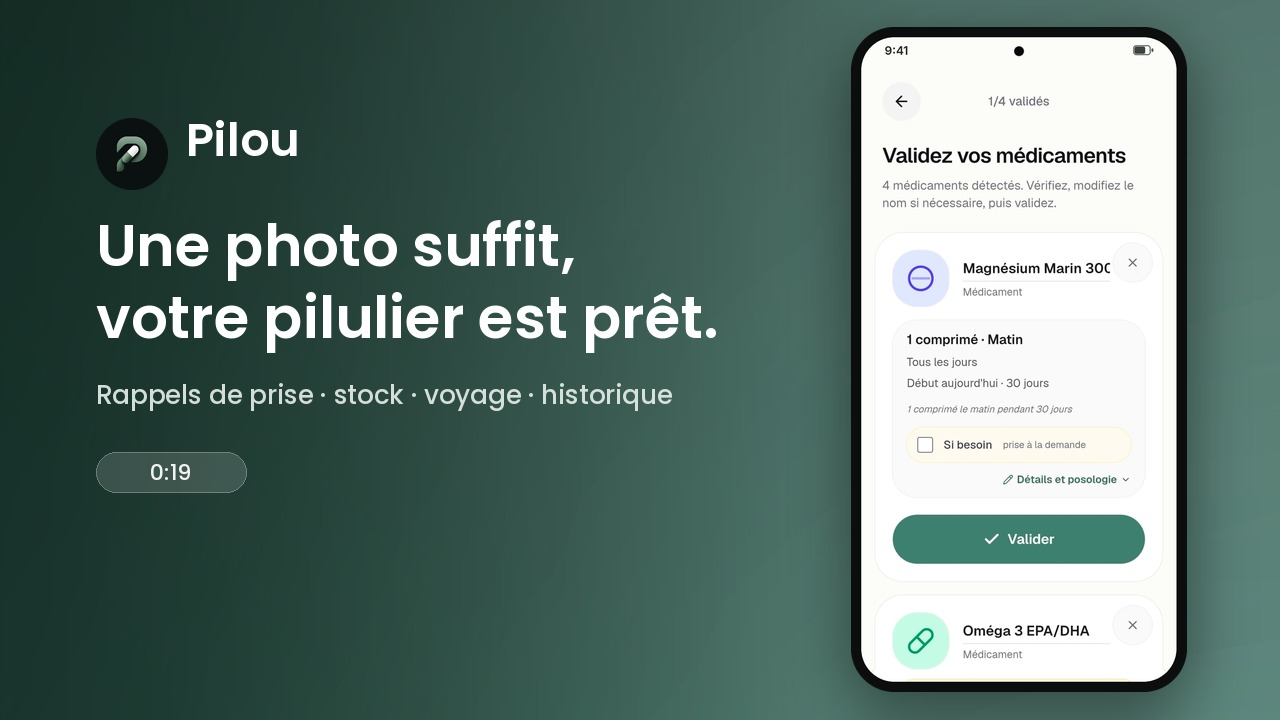
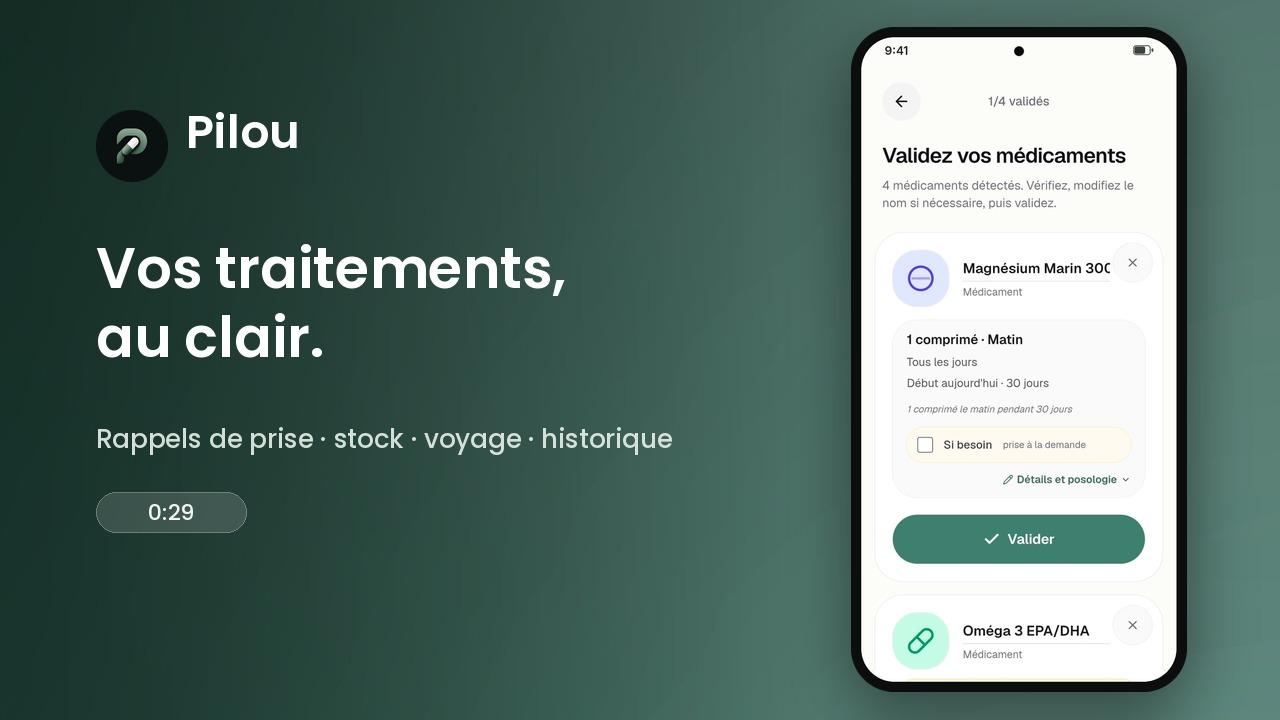
Lecteur video : bascule sur le film fonctionnalites (30 s, voix licenciee)
Accueil et support pointent desormais sur bhYcdQlru8E. VideoObject mis a jour : nom, description, uploadDate 2026-08-16, duration PT29S, embedUrl. Nouvelle affiche : badge 0:29, et titre raccourci pour que le bouton de lecture ne recouvre plus le texte.

Changed region(s): [[0.0625, 0.3056, 0.5625, 0.7639], [0.3438, 0.5194, 0.5312, 0.6417], [0.0625, 0.1528, 0.25, 0.275]]

diff --git a/index.html b/index.html
@@ -1126,11 +1126,11 @@ footer{background:#0a0f0c;color:white;padding:64px 40px 40px}
 <section class="film-section" aria-labelledby="film-titre">
   <div class="film-wrap">
     <div class="film-eyebrow">En vidéo</div>
-    <h2 class="film-title" id="film-titre">Pilou en vingt secondes</h2>
-    <p class="film-sub">Une photo de votre ordonnance, et votre pilulier est prêt.</p>
+    <h2 class="film-title" id="film-titre">Pilou en trente secondes</h2>
+    <p class="film-sub">La vie d’un traitement, de l’ordonnance au renouvellement.</p>
     <div class="film-frame">
-      <a class="film-facade" href="https://www.youtube.com/watch?v=Wdt5yfLllcM" data-yt="Wdt5yfLllcM" rel="noopener">
-        <img src="/affiche-film.jpg" width="1280" height="720" loading="lazy" decoding="async" alt="Pilou : une photo suffit, votre pilulier est prêt">
+      <a class="film-facade" href="https://www.youtube.com/watch?v=bhYcdQlru8E" data-yt="bhYcdQlru8E" rel="noopener">
+        <img src="/affiche-film.jpg" width="1280" height="720" loading="lazy" decoding="async" alt="Pilou : le pilulier qui lit votre ordonnance">
         <span class="film-play" aria-hidden="true"><i></i></span>
       </a>
     </div>
@@ -1141,12 +1141,12 @@ footer{background:#0a0f0c;color:white;padding:64px 40px 40px}
 {
   "@context": "https://schema.org",
   "@type": "VideoObject",
-  "name": "Pilou — une photo suffit, votre pilulier est prêt",
-  "description": "Présentation de Pilou, pilulier numérique français : une photo de l’ordonnance, et les rappels de prise, les durées et les stocks sont prêts.",
+  "name": "Pilou — le pilulier qui lit votre ordonnance",
+  "description": "Présentation de Pilou, pilulier numérique français : la vie d’un traitement sur trente jours, de la lecture de l’ordonnance au renouvellement, avec les rappels de prise, le stock, la liste de voyage et l’historique.",
   "thumbnailUrl": "https://pilou-app.fr/affiche-film.jpg",
-  "uploadDate": "2026-08-14",
-  "duration": "PT19S",
-  "embedUrl": "https://www.youtube-nocookie.com/embed/Wdt5yfLllcM",
+  "uploadDate": "2026-08-16",
+  "duration": "PT29S",
+  "embedUrl": "https://www.youtube-nocookie.com/embed/bhYcdQlru8E",
   "publisher": { "@id": "https://pilou-app.fr/#organization" }
 }
 </script>
@@ -1157,7 +1157,7 @@ footer{background:#0a0f0c;color:white;padding:64px 40px 40px}
     e.preventDefault();
     var f=document.createElement("iframe");
     f.src="https://www.youtube-nocookie.com/embed/"+a.getAttribute("data-yt")+"?autoplay=1&rel=0&modestbranding=1&hl=fr";
-    f.title="Pilou, une photo suffit, votre pilulier est pret";
+    f.title="Pilou, le pilulier qui lit votre ordonnance";
     f.allow="accelerometer; autoplay; clipboard-write; encrypted-media; gyroscope; picture-in-picture; web-share";
     f.setAttribute("allowfullscreen","");
     a.parentNode.replaceChild(f,a);

diff --git a/support/index.html b/support/index.html
@@ -867,8 +867,8 @@ footer{background:#0a0f0c;color:white;padding:64px 40px 40px}
     </style>
     <section class="film-section" aria-label="Pilou en vidéo">
       <div class="film-frame">
-        <a class="film-facade" href="https://www.youtube.com/watch?v=Wdt5yfLllcM" data-yt="Wdt5yfLllcM" rel="noopener">
-          <img src="/affiche-film.jpg" width="1280" height="720" loading="lazy" decoding="async" alt="Pilou : une photo suffit, votre pilulier est prêt">
+        <a class="film-facade" href="https://www.youtube.com/watch?v=bhYcdQlru8E" data-yt="bhYcdQlru8E" rel="noopener">
+          <img src="/affiche-film.jpg" width="1280" height="720" loading="lazy" decoding="async" alt="Pilou : le pilulier qui lit votre ordonnance">
           <span class="film-play" aria-hidden="true"><i></i></span>
         </a>
       </div>
@@ -881,7 +881,7 @@ footer{background:#0a0f0c;color:white;padding:64px 40px 40px}
         e.preventDefault();
         var f=document.createElement("iframe");
         f.src="https://www.youtube-nocookie.com/embed/"+a.getAttribute("data-yt")+"?autoplay=1&rel=0&modestbranding=1&hl=fr";
-        f.title="Pilou, une photo suffit, votre pilulier est pret";
+        f.title="Pilou, le pilulier qui lit votre ordonnance";
         f.allow="accelerometer; autoplay; clipboard-write; encrypted-media; gyroscope; picture-in-picture; web-share";
         f.setAttribute("allowfullscreen","");
         a.parentNode.replaceChild(f,a);
